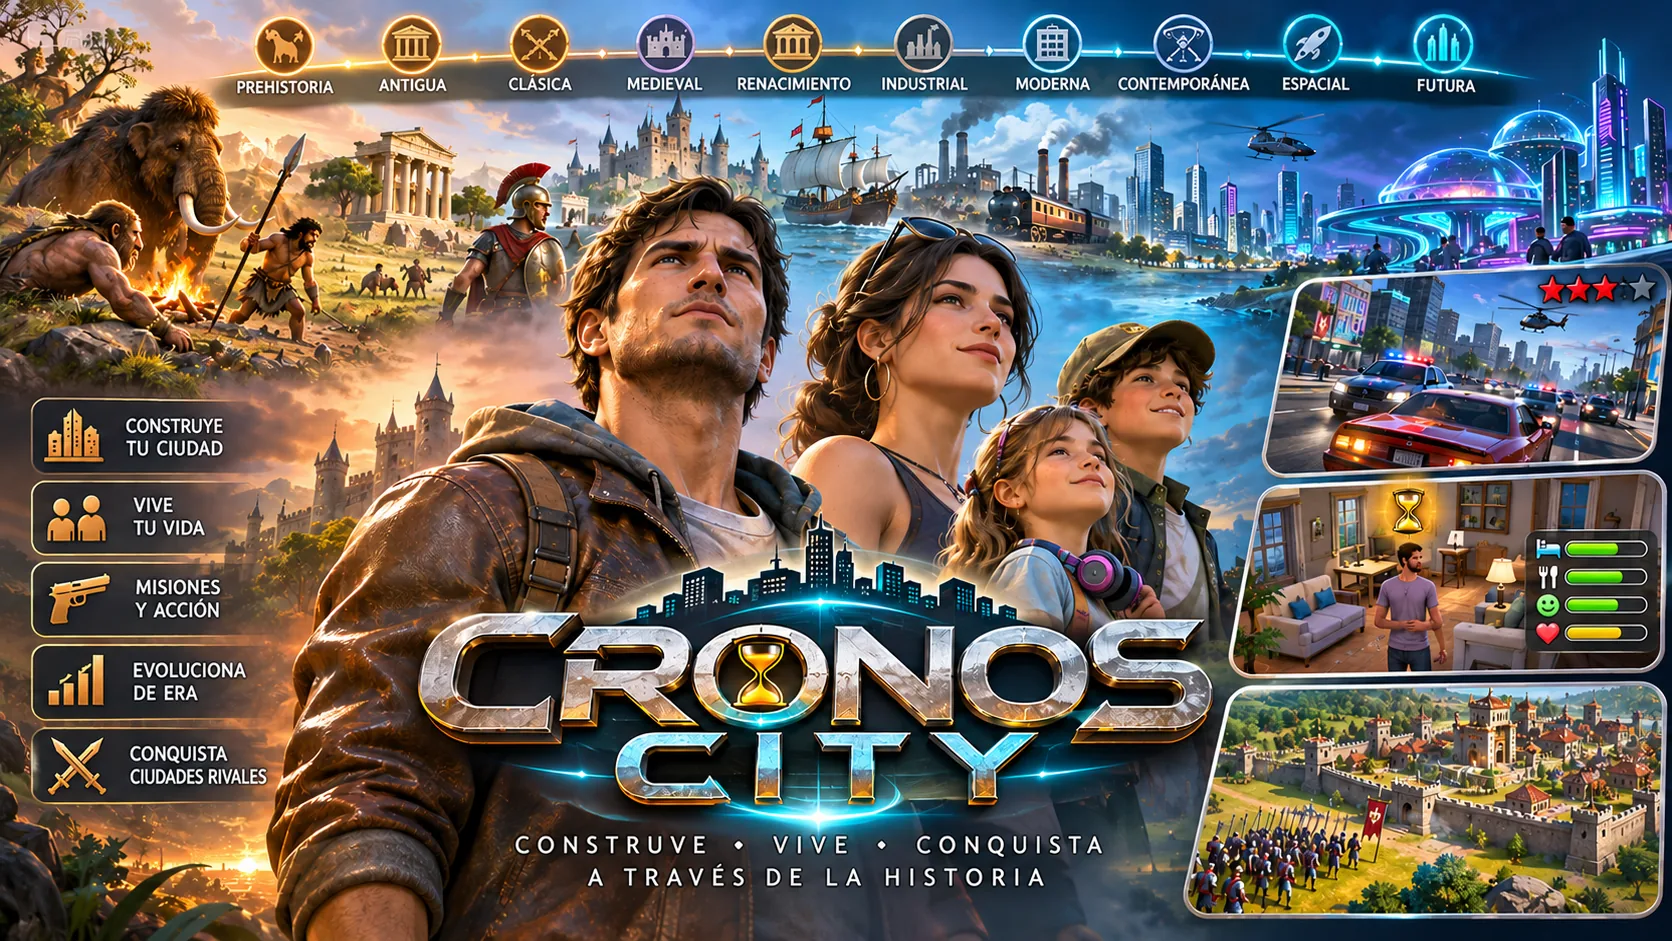
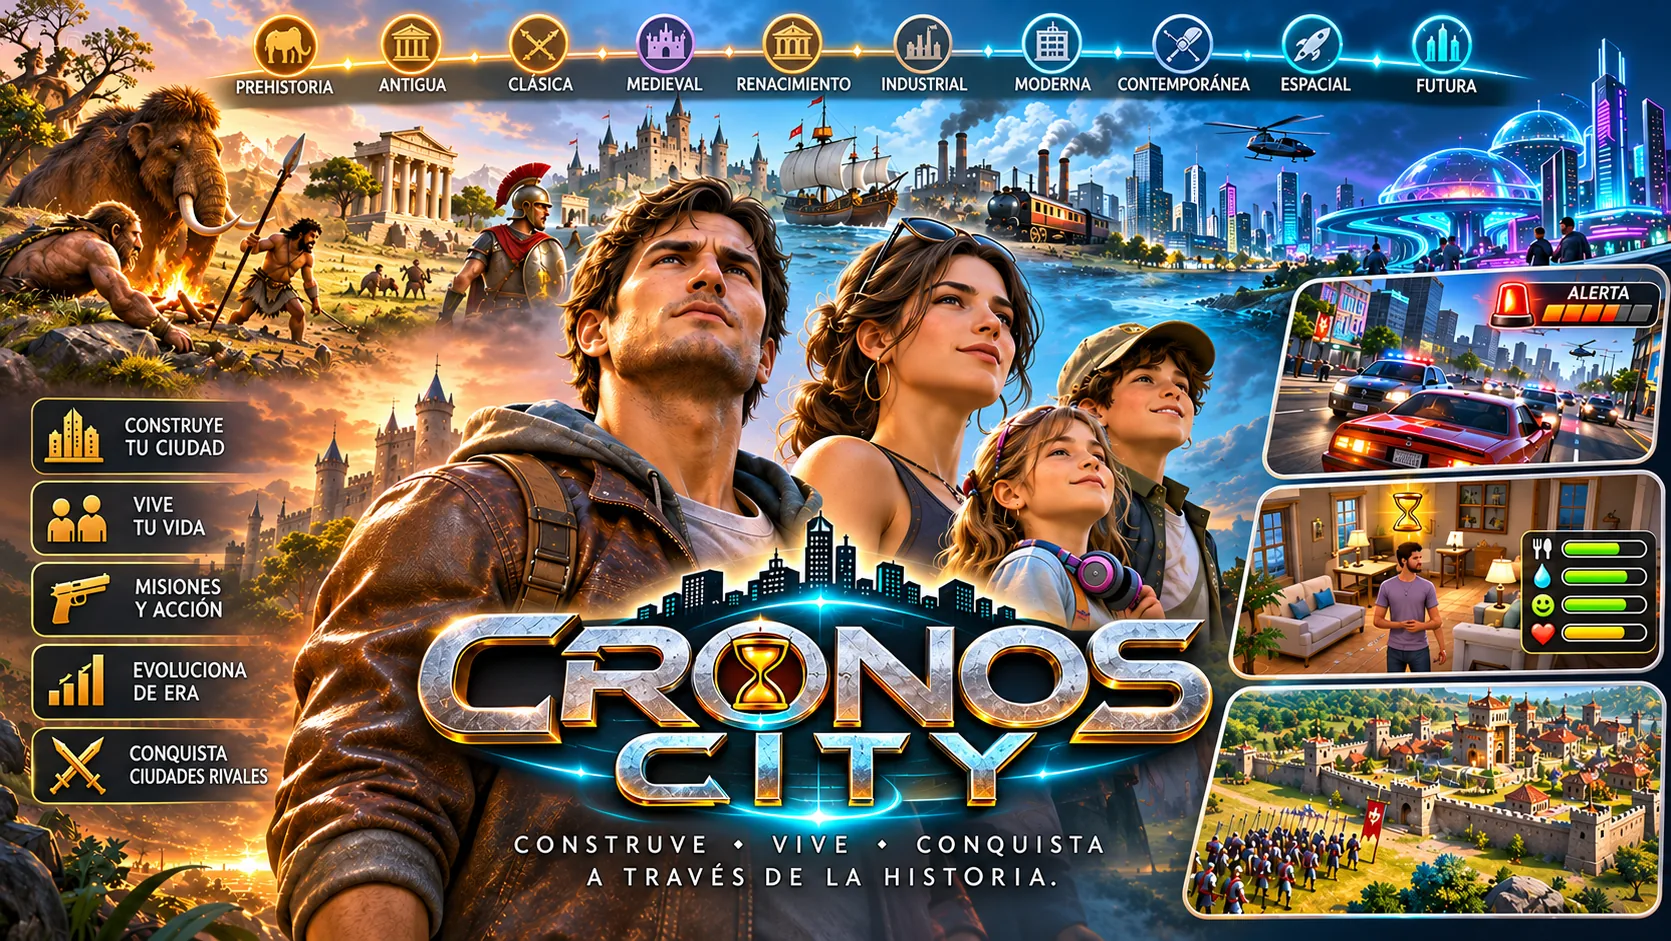
Cronos City: arte final (indicador de alerta propio)
Claude-Session: https://claude.ai/code/session_01Cch2ktKdpninPUWdiGh3To

diff --git a/index.html b/index.html
@@ -157,7 +157,7 @@
   <div class="wrap nav-in">
     <a href="#inicio" class="logo" aria-label="NovaRise Games · Inicio"><img src="assets/logo/novarise-logo-oscuro.svg" alt="NovaRise Games" width="163" height="38" class="logo-img"></a>
     <div class="links" id="links">
-      <div class="dd dd-games"><button type="button" class="nav-link dd-btn" aria-expanded="false" aria-haspopup="true">Juegos<svg class="chev" width="12" height="12" viewBox="0 0 24 24" fill="none" stroke="currentColor" stroke-width="2.6" stroke-linecap="round"><path d="M6 9l6 6 6-6"/></svg></button><div class="dd-menu"><span class="dd-title">Nuestros juegos</span><a class="dd-item" href="#juego"><img src="assets/img/portada/portada-es.webp" alt="" width="64" height="51" loading="lazy"><span><strong>Reinos de Leyenda</strong><small>Estrategia fantástica por turnos</small></span></a><a class="dd-item" href="#tidebound"><img src="assets/img/tidebound/portada.webp" alt="" width="64" height="51" loading="lazy"><span><strong>Tidebound</strong><small>Supervivencia en alta mar</small></span></a><a class="dd-item" href="#cronos"><img src="assets/img/cronos/cronos-portada.webp?v=2" alt="" width="64" height="51" loading="lazy"><span><strong>Cronos City</strong><small>En desarrollo · próximamente</small></span></a></div></div>
+      <div class="dd dd-games"><button type="button" class="nav-link dd-btn" aria-expanded="false" aria-haspopup="true">Juegos<svg class="chev" width="12" height="12" viewBox="0 0 24 24" fill="none" stroke="currentColor" stroke-width="2.6" stroke-linecap="round"><path d="M6 9l6 6 6-6"/></svg></button><div class="dd-menu"><span class="dd-title">Nuestros juegos</span><a class="dd-item" href="#juego"><img src="assets/img/portada/portada-es.webp" alt="" width="64" height="51" loading="lazy"><span><strong>Reinos de Leyenda</strong><small>Estrategia fantástica por turnos</small></span></a><a class="dd-item" href="#tidebound"><img src="assets/img/tidebound/portada.webp" alt="" width="64" height="51" loading="lazy"><span><strong>Tidebound</strong><small>Supervivencia en alta mar</small></span></a><a class="dd-item" href="#cronos"><img src="assets/img/cronos/cronos-portada.webp?v=3" alt="" width="64" height="51" loading="lazy"><span><strong>Cronos City</strong><small>En desarrollo · próximamente</small></span></a></div></div>
       <a href="#jugabilidad">Así se juega</a>
       <a href="#novedades">Novedades</a>
       <a href="comunidad/">Creadores</a>
@@ -420,7 +420,7 @@
 <section id="cronos" class="cr">
   <div class="wrap">
     <div class="cr-hero reveal">
-      <img src="assets/img/cronos/cronos-arte.webp?v=2" alt="Arte de Cronos City: una familia ante una ciudad que evoluciona de la Prehistoria al futuro" loading="lazy" width="1100" height="619">
+      <img src="assets/img/cronos/cronos-arte.webp?v=3" alt="Arte de Cronos City: una familia ante una ciudad que evoluciona de la Prehistoria al futuro" loading="lazy" width="1100" height="619">
       <div class="cr-txt">
         <span class="cr-pill"><i></i>En desarrollo · próximamente</span>
         <h2 class="title">Cronos City</h2>
@@ -559,7 +559,7 @@
   <button class="lb-nav next" id="lbNext" aria-label="Siguiente">›</button>
 </div>
 
-<script src="js/config.js?v=2026112221225"></script>
+<script src="js/config.js?v=2026112221276"></script>
 <script src="js/main.js?v=2026112221194"></script>
 </body>
 </html>

diff --git a/en/index.html b/en/index.html
@@ -157,7 +157,7 @@
   <div class="wrap nav-in">
     <a href="#inicio" class="logo" aria-label="NovaRise Games · Home"><img src="../assets/logo/novarise-logo-oscuro.svg" alt="NovaRise Games" width="163" height="38" class="logo-img"></a>
     <div class="links" id="links">
-      <div class="dd dd-games"><button type="button" class="nav-link dd-btn" aria-expanded="false" aria-haspopup="true">Games<svg class="chev" width="12" height="12" viewBox="0 0 24 24" fill="none" stroke="currentColor" stroke-width="2.6" stroke-linecap="round"><path d="M6 9l6 6 6-6"/></svg></button><div class="dd-menu"><span class="dd-title">Our games</span><a class="dd-item" href="#juego"><img src="../assets/img/portada/portada-en.webp" alt="" width="64" height="51" loading="lazy"><span><strong>Realms of Legend</strong><small>Turn-based fantasy strategy</small></span></a><a class="dd-item" href="#tidebound"><img src="../assets/img/tidebound/portada.webp" alt="" width="64" height="51" loading="lazy"><span><strong>Tidebound</strong><small>Survival on the open sea</small></span></a><a class="dd-item" href="#cronos"><img src="../assets/img/cronos/cronos-portada.webp?v=2" alt="" width="64" height="51" loading="lazy"><span><strong>Cronos City</strong><small>In development · coming soon</small></span></a></div></div>
+      <div class="dd dd-games"><button type="button" class="nav-link dd-btn" aria-expanded="false" aria-haspopup="true">Games<svg class="chev" width="12" height="12" viewBox="0 0 24 24" fill="none" stroke="currentColor" stroke-width="2.6" stroke-linecap="round"><path d="M6 9l6 6 6-6"/></svg></button><div class="dd-menu"><span class="dd-title">Our games</span><a class="dd-item" href="#juego"><img src="../assets/img/portada/portada-en.webp" alt="" width="64" height="51" loading="lazy"><span><strong>Realms of Legend</strong><small>Turn-based fantasy strategy</small></span></a><a class="dd-item" href="#tidebound"><img src="../assets/img/tidebound/portada.webp" alt="" width="64" height="51" loading="lazy"><span><strong>Tidebound</strong><small>Survival on the open sea</small></span></a><a class="dd-item" href="#cronos"><img src="../assets/img/cronos/cronos-portada.webp?v=3" alt="" width="64" height="51" loading="lazy"><span><strong>Cronos City</strong><small>In development · coming soon</small></span></a></div></div>
       <a href="#jugabilidad">How it plays</a>
       <a href="#novedades">News</a>
       <a href="community/">Creators</a>
@@ -420,7 +420,7 @@
 <section id="cronos" class="cr">
   <div class="wrap">
     <div class="cr-hero reveal">
-      <img src="../assets/img/cronos/cronos-arte.webp?v=2" alt="Cronos City artwork: a family before a city evolving from prehistory to the future" loading="lazy" width="1100" height="619">
+      <img src="../assets/img/cronos/cronos-arte.webp?v=3" alt="Cronos City artwork: a family before a city evolving from prehistory to the future" loading="lazy" width="1100" height="619">
       <div class="cr-txt">
         <span class="cr-pill"><i></i>In development · coming soon</span>
         <h2 class="title">Cronos City</h2>
@@ -559,7 +559,7 @@
   <button class="lb-nav next" id="lbNext" aria-label="Next">›</button>
 </div>
 
-<script src="../js/config.js?v=2026112221225"></script>
+<script src="../js/config.js?v=2026112221276"></script>
 <script src="../js/main.js?v=2026112221194"></script>
 </body>
 </html>

diff --git a/js/config.js b/js/config.js
@@ -60,7 +60,7 @@ window.PROYECTOS = [
     texto:"Construye tu ciudad, vive la vida de sus habitantes y conquista ciudades rivales a través de 10 eras de la historia. En desarrollo.",
     texto_en:"Build your city, live the lives of its people and conquer rival cities across 10 eras of history. In development.",
     status:"dev", chips:["Construcción","Simulación","Estrategia"], chips_en:["City building","Simulation","Strategy"],
-    imagen:"assets/img/cronos/cronos-portada.webp?v=2",
+    imagen:"assets/img/cronos/cronos-portada.webp?v=3",
     enlaces:[ {texto:"Descubrir", texto_en:"Discover", url:"#cronos", ancla:true},
               {texto:"Seguir el desarrollo", texto_en:"Follow development", url:"https://novarisegames.itch.io"} ] }
 ];
